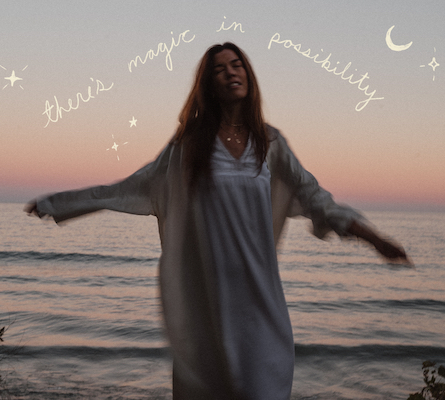
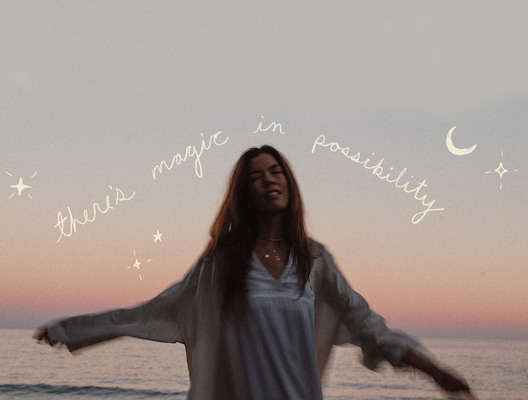
update special offer header mobile image

diff --git a/src/pages/special-offer.js b/src/pages/special-offer.js
@@ -62,7 +62,7 @@ const SpecialOffersPage = () => (
         src="../images/special-offer/header-full.jpg"
         alt=""
         placeholder="blurred"
-        cropFocus="NORTH"
+        cropfocus="NORTH"
         style={{ flex: 1 }}
       />
       <StaticImage
@@ -70,7 +70,6 @@ const SpecialOffersPage = () => (
         src="../images/special-offer/header-mobile.jpg"
         alt=""
         placeholder="blurred"
-        cropFocus="NORTH"
         style={{ flex: 1 }}
       />
     </Header>
